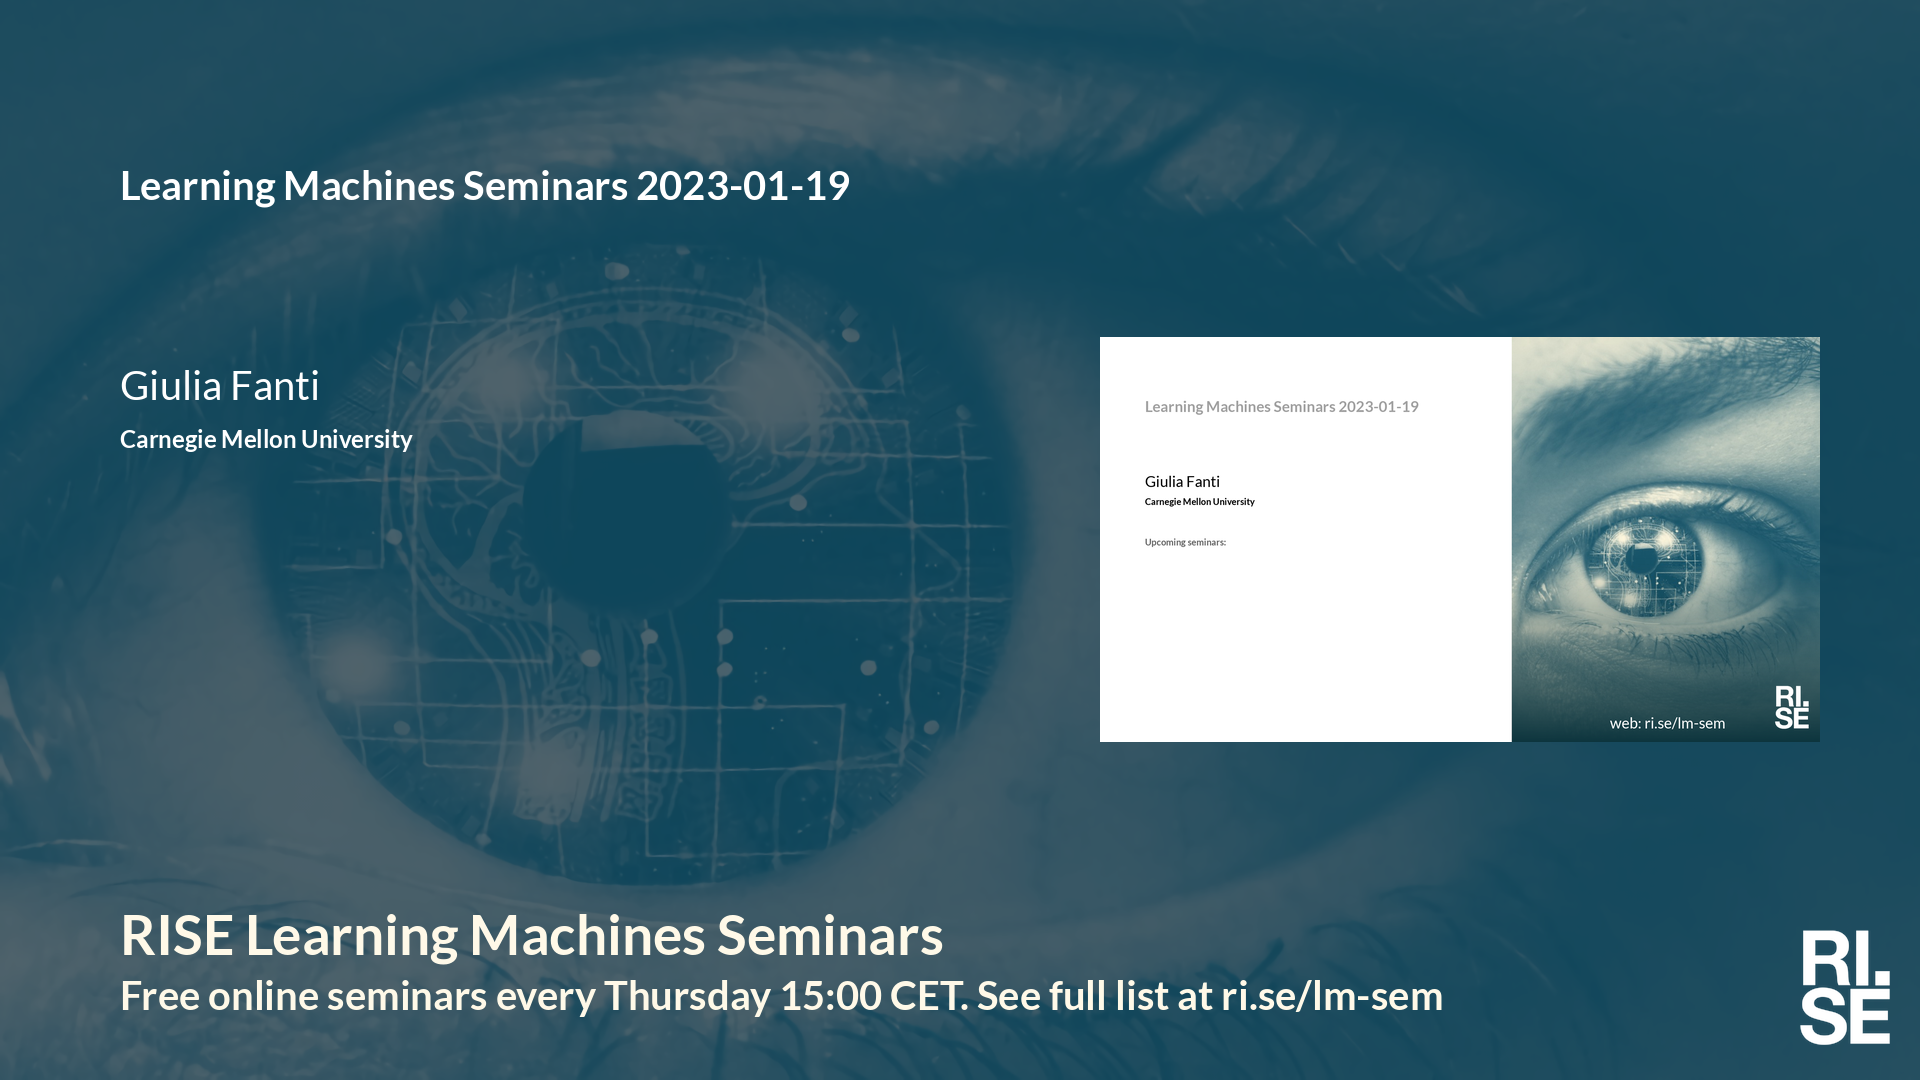
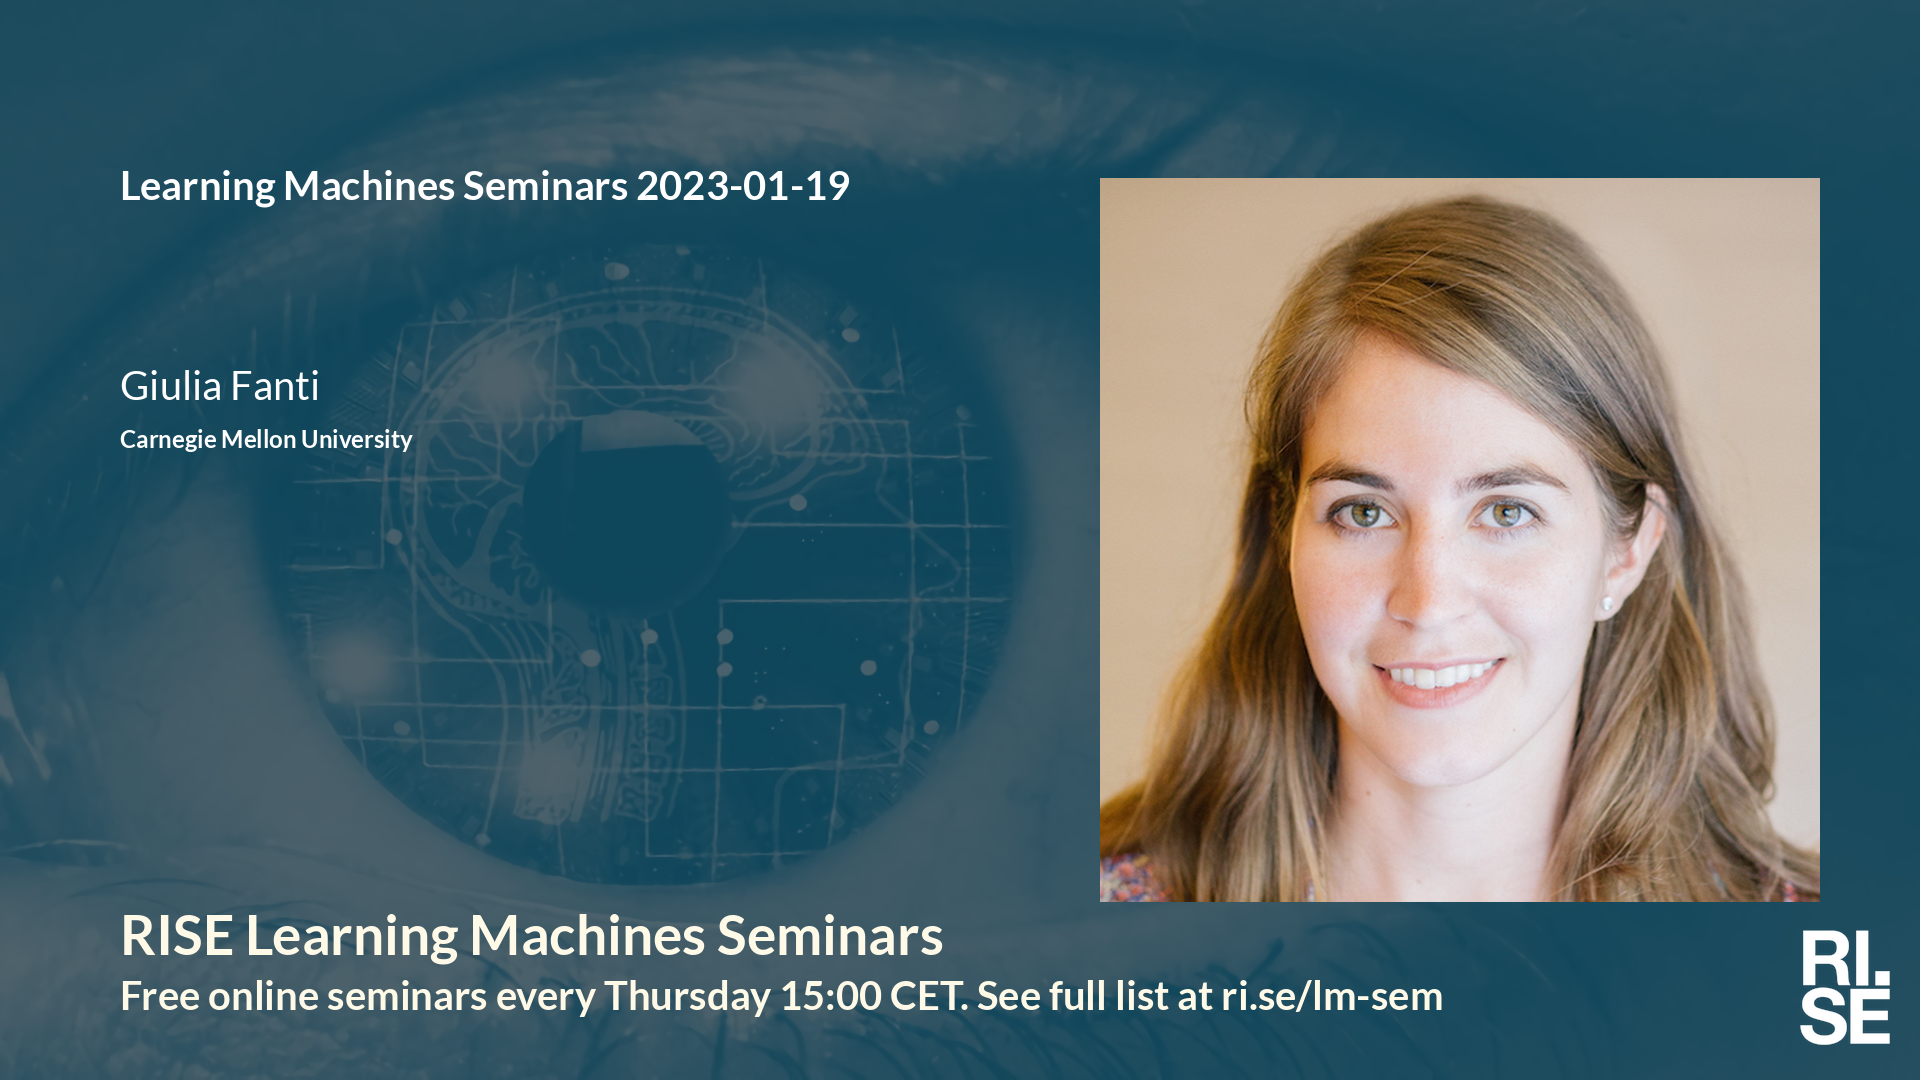
Updated plan on web site.

Changed region(s): [[0.5625, 0.1528, 0.9688, 0.8556]]

diff --git a/lm/index.md b/lm/index.md
@@ -15,7 +15,7 @@
 | <span style="color:red"> 2022-12-29 </span> | <span style="color:red"> Christmas </span> | <span style="color:red">  </span> | <span style="color:red">  </span> | <span style="color:red">  </span> | <span style="color:red">  </span> | <span style="color:red"> (cancelled) </span> |
 | <span style="color:red"> 2023-01-05 </span> | <span style="color:red"> Christmas </span> | <span style="color:red">  </span> | <span style="color:red">  </span> | <span style="color:red">  </span> | <span style="color:red">  </span> | <span style="color:red"> (cancelled) </span> |
 |  2023-01-12  |  [Mark D. Plumbley, University of Surrey](2023-01-12.md)  |  [photo](photo-mark-d.-plumbley.jpg)  |  [social media ](social-media-mark-d.-plumbley.png)  |    |  [youtube thumbnail ](youtube-thumbnail-mark-d.-plumbley.png)  |  (confirmed)     |
-|  2023-01-19  |  [Giulia Fanti, Carnegie Mellon University](2023-01-19.md)  |  [photo](photo-giulia-fanti.png)  |  [social media ](social-media-giulia-fanti.png)  |  [meeting backdrop ](meeting-backdrop-giulia-fanti.png)  |  [youtube thumbnail ](youtube-thumbnail-giulia-fanti.png)  |  (confirmed)     |
+|  2023-01-19  |  [Giulia Fanti, Carnegie Mellon University](2023-01-19.md)  |  [photo](photo-giulia-fanti.jpg)  |  [social media ](social-media-giulia-fanti.png)  |  [meeting backdrop ](meeting-backdrop-giulia-fanti.png)  |  [youtube thumbnail ](youtube-thumbnail-giulia-fanti.png)  |  (confirmed)     |
 | <span style="color:purple"> 2023-01-26 </span> | <span style="color:purple"> *Up for grabs!!!* </span> | <span style="color:purple">  </span> | <span style="color:purple">  </span> | <span style="color:purple">  </span> | <span style="color:purple">  </span> | <span style="color:purple"> (not confirmed) </span> |
 | <span style="color:purple"> 2023-02-02 </span> | <span style="color:purple"> *Up for grabs!!!* </span> | <span style="color:purple">  </span> | <span style="color:purple">  </span> | <span style="color:purple">  </span> | <span style="color:purple">  </span> | <span style="color:purple"> (not confirmed) </span> |
 | <span style="color:purple"> 2023-02-09 </span> | <span style="color:purple"> *Up for grabs!!!* </span> | <span style="color:purple">  </span> | <span style="color:purple">  </span> | <span style="color:purple">  </span> | <span style="color:purple">  </span> | <span style="color:purple"> (not confirmed) </span> |
